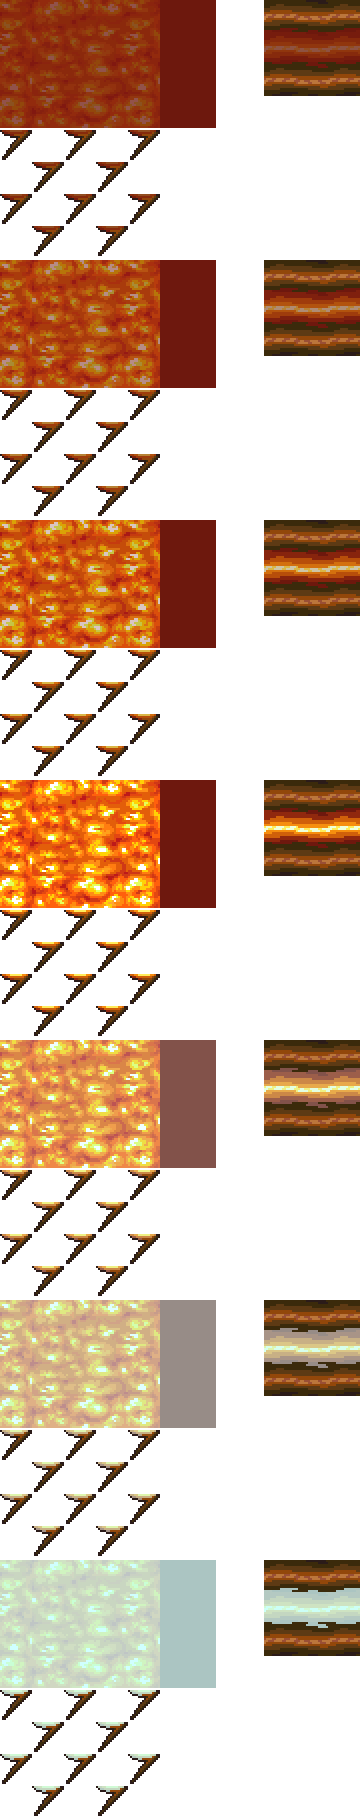
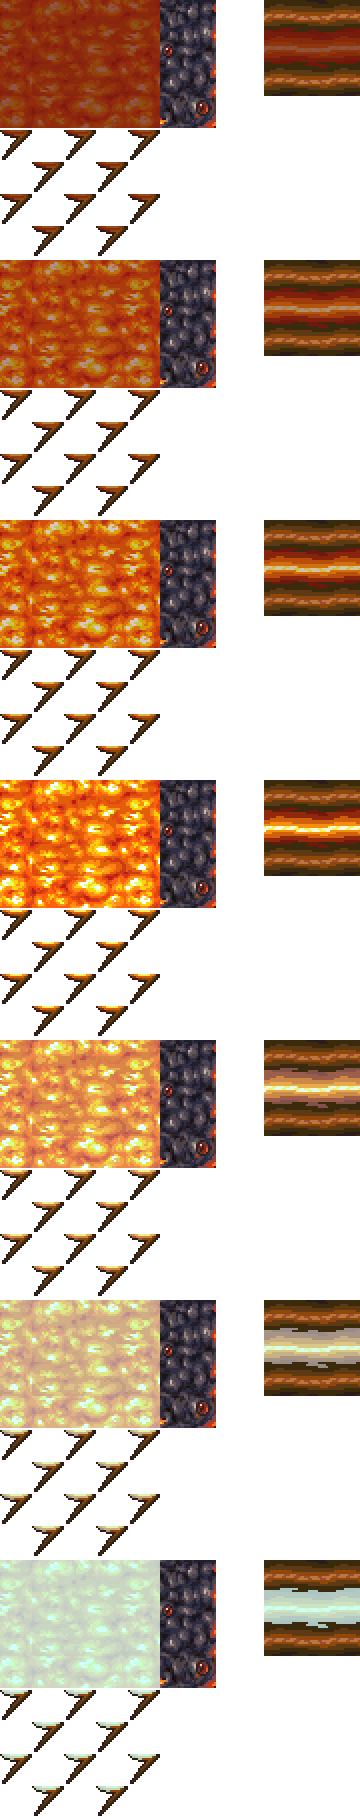
Convective Armor

diff --git a/PolaritiesPlayer.cs b/PolaritiesPlayer.cs
@@ -31,6 +31,10 @@ using Polarities.Projectiles;
 using Polarities.Items.Consumables.Crates;
 using Terraria.Localization;
 using Polarities.Items.Placeable.Bars;
+using Polarities.Items.Armor.ConvectiveArmor;
+using Terraria.Audio;
+using Polarities.NPCs.ConvectiveWanderer;
+using Polarities.Effects;
 
 namespace Polarities
 {
@@ -87,6 +91,9 @@ namespace Polarities
 		public bool solarEnergizer;
 		public bool wormScarf;
 		public int wyvernsNestDamage;
+		public Vector3 light;
+		public DamageClass convectiveSetBonusType;
+		public int convectiveSetBonusCharge;
 
 		//direction of dash
 		public int dashDir;
@@ -133,6 +140,8 @@ namespace Polarities
 			wormScarf = false;
 			wyvernsNestDamage = 0;
 			incinerationResistanceTime = 0;
+			light = Vector3.Zero;
+			convectiveSetBonusType = null;
 
 			if (skeletronBookCooldown > 0) skeletronBookCooldown--;
 			if (beeRingTimer > 0) beeRingTimer--;
@@ -200,6 +209,62 @@ namespace Polarities
 			if (PlayerInput.Triggers.JustPressed.MouseRight && (Player.HeldItem.DamageType == DamageClass.Summon || Player.HeldItem.DamageType.GetEffectInheritance(DamageClass.Summon)) && Player.channel)
 			{
 				Player.MinionNPCTargetAim(false);
+			}
+
+			//convective set bonus
+			if (convectiveSetBonusType != null)
+			{
+				convectiveSetBonusCharge++;
+
+				if (convectiveSetBonusCharge == 600)
+                {
+					SoundEngine.PlaySound(SoundID.Item, Player.position, 15);
+
+					for (int i = 0; i < 24; i++)
+					{
+						float speedProgress = Main.rand.NextFloat(1f);
+
+						ConvectiveWandererVortexParticle particle = Particle.NewParticle<ConvectiveWandererVortexParticle>(Player.MountedCenter, new Vector2(4 + speedProgress * 8, 0).RotatedBy(MathHelper.TwoPi * i / 24f), 0f, 0f, Scale: 0.15f, Color: ModUtils.ConvectiveFlameColor((1 - speedProgress) * (1 - speedProgress) / 2f));
+						ParticleLayer.BeforePlayersAdditive.Add(particle);
+					}
+				}
+
+				if (convectiveSetBonusCharge >= 600 && Polarities.ConvectiveSetBonusHotkey.JustPressed)
+				{
+					if (convectiveSetBonusType == DamageClass.Melee)
+                    {
+						Projectile.NewProjectile(Player.GetSource_FromAI(), Player.MountedCenter, Vector2.Zero, ProjectileType<ConvectiveArmorMeleeExplosion>(), (int)Player.GetTotalDamage(DamageClass.Melee).ApplyTo(400), Player.GetTotalKnockback(DamageClass.Melee).ApplyTo(5f), Player.whoAmI);
+                    }
+					else if (convectiveSetBonusType == DamageClass.Ranged)
+					{
+						Projectile.NewProjectile(Player.GetSource_FromAI(), Player.MountedCenter, Main.MouseWorld - Player.MountedCenter, ProjectileType<ConvectiveArmorRangedDeathray>(), (int)Player.GetTotalDamage(DamageClass.Ranged).ApplyTo(300), Player.GetTotalKnockback(DamageClass.Ranged).ApplyTo(5f), Player.whoAmI);
+					}
+					else if (convectiveSetBonusType == DamageClass.Magic)
+					{
+						SoundEngine.PlaySound(SoundID.Item88, Main.MouseWorld);
+						for (int i = 0; i < 32; i++)
+						{
+							Vector2 offset = new Vector2(Main.rand.NextFloat(1f), 0).RotatedByRandom(MathHelper.TwoPi);
+							Projectile.NewProjectile(Player.GetSource_FromAI(), Main.MouseWorld + new Vector2(0, 1000), new Vector2(0, -54).RotatedBy(offset.X * 0.2f) * (1 + offset.Y * 0.4f), ProjectileType<ConvectiveArmorMagicEruption>(), (int)Player.GetTotalDamage(DamageClass.Magic).ApplyTo(80), Player.GetTotalKnockback(DamageClass.Magic).ApplyTo(2f), Player.whoAmI);
+						}
+					}
+					else if (convectiveSetBonusType == DamageClass.Summon)
+					{
+						SoundEngine.PlaySound(SoundID.NPCDeath14, Player.Center);
+						for (int i = 0; i < Player.maxMinions; i++)
+						{
+							Main.projectile[Projectile.NewProjectile(Player.GetSource_FromAI(), Player.MountedCenter, new Vector2(16, 0).RotatedBy(PolaritiesSystem.timer * 0.05f + MathHelper.TwoPi * i / Player.maxMinions), ProjectileType<ConvectiveArmorSummonVortex>(), 400, Player.GetTotalKnockback(DamageClass.Summon).ApplyTo(3f), Player.whoAmI)].originalDamage = 400;
+						}
+					}
+
+					AddScreenShake(15, 30);
+
+					convectiveSetBonusCharge = 0;
+				}
+			}
+			else
+			{
+				convectiveSetBonusCharge = 0;
 			}
 		}
 
@@ -307,6 +372,8 @@ namespace Polarities
 			{
 				Player.statDefense = 0;
 			}
+
+			Lighting.AddLight(Player.Center, light);
 		}
 
         public void AddScreenShake(float magnitude, float timeLeft)

diff --git a/Polarities.cs b/Polarities.cs
@@ -2,6 +2,7 @@
 using System.Collections.Generic;
 using System.Reflection;
 using Microsoft.Xna.Framework.Graphics;
+using Microsoft.Xna.Framework.Input;
 using Mono.Cecil.Cil;
 using MonoMod.Cil;
 using MonoMod.RuntimeDetour.HookGen;
@@ -27,6 +28,8 @@ namespace Polarities
         //the size is odd because we only ever move 4 steps along the data stream so this way we can loop 4 times without actually repeating
         public static PreGeneratedRandom preGeneratedRand = new PreGeneratedRandom(358297, 4095);
 
+        public static ModKeybind ConvectiveSetBonusHotkey;
+
         public override void Load()
         {
             ModUtils.Load();
@@ -38,6 +41,9 @@ namespace Polarities
             On.Terraria.Main.UpdateAudio_DecideOnNewMusic += Main_UpdateAudio_DecideOnNewMusic;
 
             IL_ResizeArrays += Polarities_IL_ResizeArrays;
+
+            //register hotkeys
+            ConvectiveSetBonusHotkey = KeybindLoader.RegisterKeybind(this, "Convective Set Bonus", Keys.K);
         }
 
         public override void Unload()
@@ -53,6 +59,9 @@ namespace Polarities
             Array.Resize<Asset<Texture2D>>(ref TextureAssets.GlowMask, Main.maxGlowMasks);
 
             IL_ResizeArrays -= Polarities_IL_ResizeArrays;
+
+            //unload hotkeys
+            ConvectiveSetBonusHotkey = null;
         }
 
         private void Polarities_IL_ResizeArrays(ILContext il)

diff --git a/Items/Armor/LimestoneArmor/LimestoneArmor.cs b/Items/Armor/LimestoneArmor/LimestoneArmor.cs
@@ -115,7 +115,7 @@ namespace Polarities.Items.Armor.LimestoneArmor
 					bodyFrame3.Height -= 4;
 				}
 				Vector2 legsOffset = drawInfo.legsOffset;
-				DrawData data = new DrawData(GlowTexture.Value, legsOffset + new Vector2((float)(int)(drawInfo.Position.X - Main.screenPosition.X - (float)(drawInfo.drawPlayer.bodyFrame.Width / 2) + (float)(drawInfo.drawPlayer.width / 2)), (float)(int)(drawInfo.Position.Y - Main.screenPosition.Y + (float)drawInfo.drawPlayer.height - (float)drawInfo.drawPlayer.bodyFrame.Height + 4f)) + drawInfo.drawPlayer.legPosition + drawInfo.legVect, bodyFrame3, Color.White, drawInfo.drawPlayer.legRotation, legVect2, 1f, drawInfo.playerEffect, 0);
+				DrawData data = new DrawData(GlowTexture.Value, legsOffset + new Vector2((float)(int)(drawInfo.Position.X - Main.screenPosition.X - (float)(drawInfo.drawPlayer.legFrame.Width / 2) + (float)(drawInfo.drawPlayer.width / 2)), (float)(int)(drawInfo.Position.Y - Main.screenPosition.Y + (float)drawInfo.drawPlayer.height - (float)drawInfo.drawPlayer.legFrame.Height + 4f)) + drawInfo.drawPlayer.legPosition + drawInfo.legVect, bodyFrame3, Color.White, drawInfo.drawPlayer.legRotation, legVect2, 1f, drawInfo.playerEffect, 0);
 				data.shader = drawInfo.cLegs;
 				drawInfo.DrawDataCache.Add(data);
 			}

diff --git a/Projectiles/PolaritiesProjectile.cs b/Projectiles/PolaritiesProjectile.cs
@@ -243,11 +243,11 @@ namespace Polarities.Projectiles
 
         public override bool? CanHitNPC(Projectile projectile, NPC target)
         {
-            if (target.GetGlobalNPC<PolaritiesNPC>().usesProjectileHitCooldowns && projectileHitCooldown > 0)
+            if (target.GetGlobalNPC<PolaritiesNPC>().usesProjectileHitCooldowns && projectileHitCooldown != 0)
             {
                 return false;
             }
-            if (generalHitCooldown > 0)
+            if (generalHitCooldown != 0)
             {
                 return false;
             }

diff --git a/NPCs/ConvectiveWanderer/ConvectiveWanderer.cs b/NPCs/ConvectiveWanderer/ConvectiveWanderer.cs
@@ -1015,6 +1015,7 @@ namespace Polarities.NPCs.ConvectiveWanderer
 			target.AddBuff(BuffType<Incinerating>(), 60, true);
 		}
 
+		//TODO: Make it so that we can actually hit the head segment even when only partially open
 		public void MultiHitboxSegmentUpdate(NPC npc, RectangleHitbox mostRecentHitbox)
 		{
 			if (mostRecentHitbox.index < NUM_TENTACLES * HITBOXES_PER_TENTACLE)

diff --git a/Items/Weapons/Melee/Warhammers/SeismicStriker.cs b/Items/Weapons/Melee/Warhammers/SeismicStriker.cs
@@ -310,6 +310,8 @@ namespace Polarities.Items.Weapons.Melee.Warhammers
         public override void AI()
         {
 			Projectile.rotation = 0f;
+
+			//TODO: Sounds
 		}
 
 		public override bool? Colliding(Rectangle projHitbox, Rectangle targetHitbox)

diff --git a/Items/Weapons/Ranged/Draconian.cs b/Items/Weapons/Ranged/Draconian.cs
@@ -139,6 +139,7 @@ namespace Polarities.Items.Weapons.Ranged
 
 		public override bool OnTileCollide(Vector2 oldVelocity)
 		{
+			Projectile.velocity = oldVelocity;
 			TryExplode();
 
 			return false;
